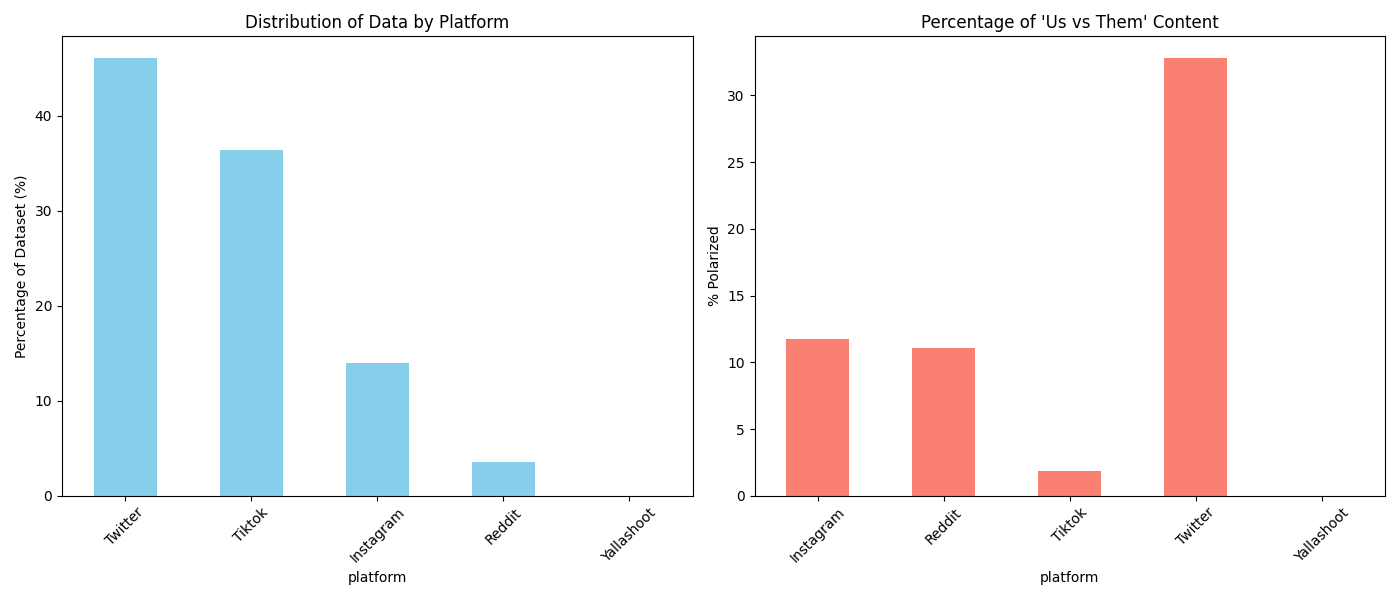
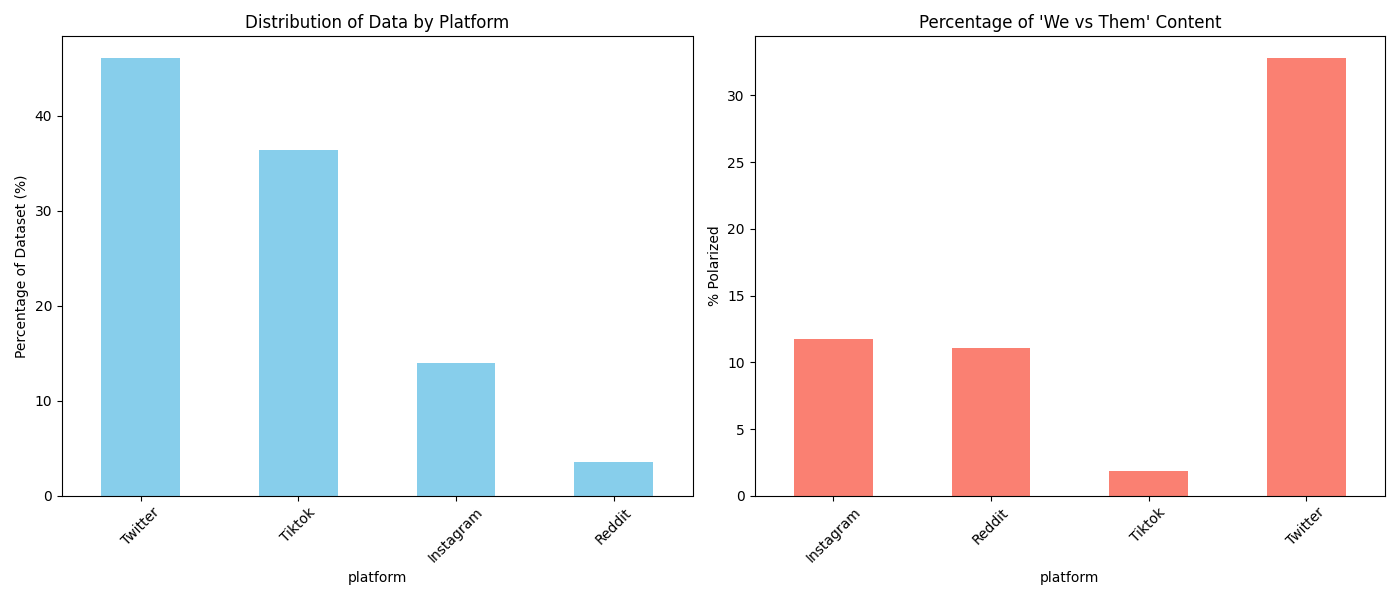
Remove all YallaShoot datasets, code references, and reports

diff --git a/src/app.py b/src/app.py
@@ -175,7 +175,7 @@ st.sidebar.title("Controls")
 
 # Scan processed directory dynamically to find all platform names
 tutor_platforms = ['Twitter', 'Tiktok', 'Instagram']
-hf_platforms = ['Reddit', 'Yallashoot']
+hf_platforms = ['Reddit']
 
 all_platforms_in_data = set()
 if os.path.exists("data/processed"):
@@ -187,7 +187,7 @@ dataset_sources = []
 if any(p in all_platforms_in_data for p in tutor_platforms):
     dataset_sources.append("Dataset (Twitter, TikTok, Instagram)")
 if any(p in all_platforms_in_data for p in hf_platforms):
-    dataset_sources.append("Hugging Face Dataset (Reddit, YallaShoot)")
+    dataset_sources.append("Hugging Face Dataset (Reddit)")
 
 # Add custom uploaded platforms dynamically
 for plat in sorted(all_platforms_in_data):
@@ -202,8 +202,8 @@ st.session_state.selected_source = selected_source
 
 if selected_source == "Dataset (Twitter, TikTok, Instagram)":
     allowed_platforms = ['Twitter', 'Tiktok', 'Instagram']
-elif selected_source == "Hugging Face Dataset (Reddit, YallaShoot)":
-    allowed_platforms = ['Reddit', 'Yallashoot']
+elif selected_source == "Hugging Face Dataset (Reddit)":
+    allowed_platforms = ['Reddit']
 else:
     import re
     match = re.search(r'\((.*?)\)', selected_source)

diff --git a/src/rag/agent.py b/src/rag/agent.py
@@ -39,8 +39,8 @@ def load_all_scored_data(scored_dir: str = "data/scored") -> pd.DataFrame:
             source = st.session_state.selected_source
             if source == "Dataset (Twitter, TikTok, Instagram)":
                 df = df[df['platform'].isin(['Twitter', 'Tiktok', 'Instagram'])]
-            elif source == "Hugging Face Dataset (Reddit, YallaShoot)":
-                df = df[df['platform'].isin(['Reddit', 'Yallashoot'])]
+            elif source == "Hugging Face Dataset (Reddit)":
+                df = df[df['platform'].isin(['Reddit'])]
             else:
                 import re
                 match = re.search(r'\((.*?)\)', source)
@@ -138,8 +138,8 @@ def retrieve_similar_comments(query: str) -> str:
             source = st.session_state.selected_source
             if source == "Dataset (Twitter, TikTok, Instagram)":
                 allowed_platforms = ['Twitter', 'Tiktok', 'Instagram']
-            elif source == "Hugging Face Dataset (Reddit, YallaShoot)":
-                allowed_platforms = ['Reddit', 'Yallashoot']
+            elif source == "Hugging Face Dataset (Reddit)":
+                allowed_platforms = ['Reddit']
             else:
                 import re
                 match = re.search(r'\((.*?)\)', source)